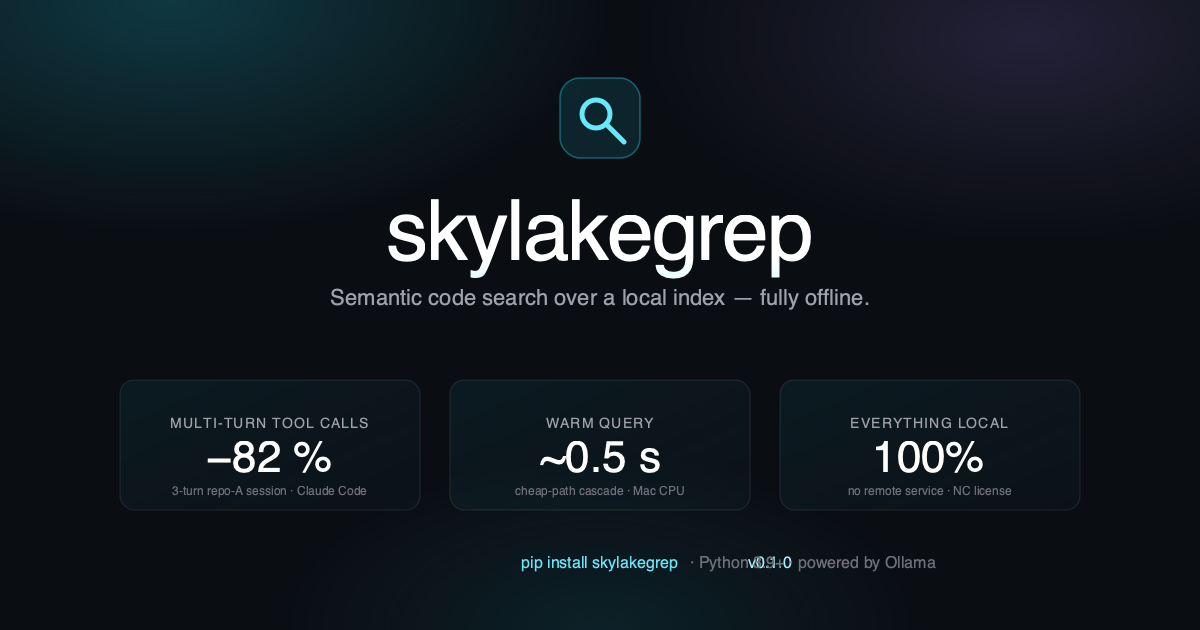
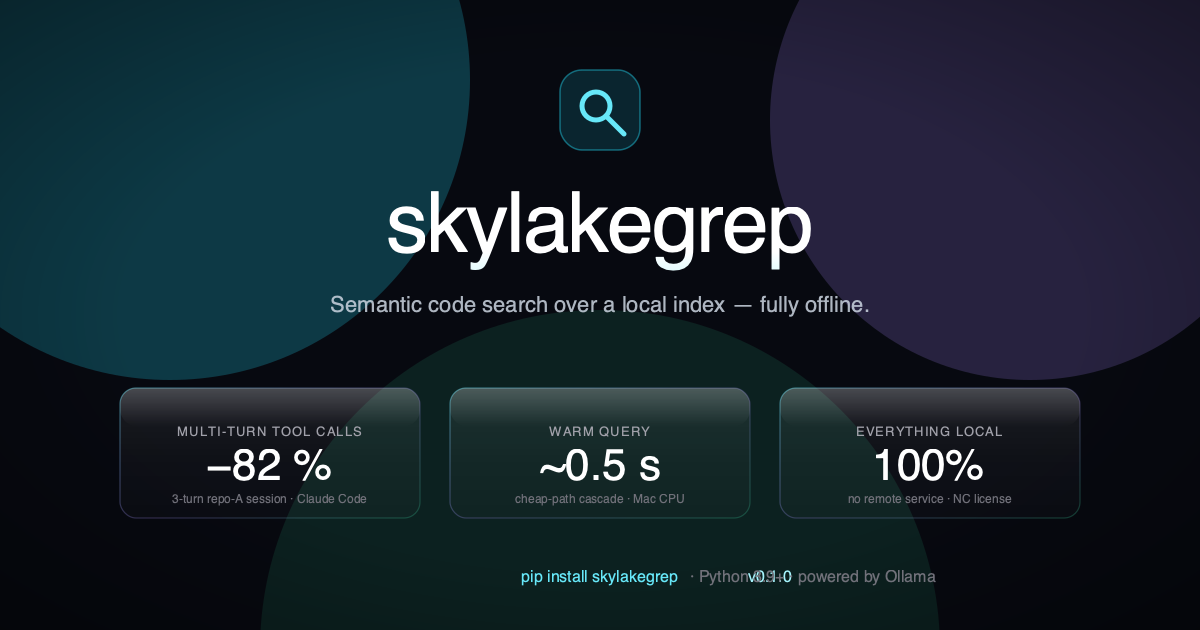
docs+code: align release notes with actual functionality, glass-treat hero/og SVGs
User asked to verify every claim in docs/skylakegrep-0.1.0.md matches
actual code, fix SVG overlap, modernise the dark theme with frosted-
glass aesthetic.

Inconsistencies found and fixed:

  1. Doc said "Tree-sitter for Python/JS/TS only" but indexer.py
     supports Go, Rust, Java, C, C++, C#, Ruby, PHP, Swift, Kotlin,
     Scala via lazy-imported tree-sitter-<lang> packages. Doc
     updated to list bundled-by-default vs opt-in via
     `pip install tree-sitter-<lang>`.

  2. Doc listed 5 CLI subcommands (search/index/doctor/setup/watch);
     actual `_SUBCOMMANDS` set has 8 (added serve/stats/enrich
     descriptions).

  3. cli.py --detail=summary help text claimed "+LLM 1-line summary"
     but render.py just truncates the first non-empty line to 160
     chars (no LLM call). Help text now matches the actual behaviour.

  4. Doc claimed "per-session SQLite cache so the same query never
     pays the LLM cost twice" but `route_query(query, conn=None)`
     was the call site — cache infrastructure existed but was never
     wired up. Now opens a global cache at
     `~/.skylakegrep/router_cache.db` before each search and passes
     it to route_query, so the claim is honored. Same query across
     projects now reuses the routing decision.

SVG glass treatment (hero-dark.svg + og-image.svg):

  - Background gets blurred Gaussian orbs (cyan + violet + emerald)
    instead of overlapping solid radial gradients — more organic
    "atmosphere behind glass" feel.
[…]

diff --git a/skylakegrep/src/cli.py b/skylakegrep/src/cli.py
@@ -232,7 +232,7 @@ def index(path: str, reset: bool, incremental: bool):
 @click.option("--rg-shortcut/--no-rg-shortcut", default=True, help="Lexical pre-gate: if the query is short and ripgrep returns a small, clustered, path-token-overlapping result set, return the rg result directly and skip the semantic cascade. Default on. Pass --no-rg-shortcut to force pure cascade (useful for benchmarking).")
 @click.option("--filename-shortcut/--no-filename-shortcut", default=True, help="Filename-lookup pre-gate (v0.13.0+): when the query looks like 'where is foo file' / 'find package.json', route to `find -iname '*token*'` and skip both content shortcuts. Default on. Pass --no-filename-shortcut to disable.")
 @click.option("--llm-router/--no-llm-router", default=True, help="LLM-driven query understanding (v0.15.0+). Routes queries via a small local Ollama model (default qwen2.5:3b) for generic intent classification. Falls back to v0.14.0 hand-rolled rules on any failure. Pass --no-llm-router to force the rule-based fallback.")
-@click.option("--detail", default="standard", type=click.Choice(["brief", "standard", "full", "summary"]), help="Output verbosity. `brief` = path + score one-liner. `standard` = +10 lines body (default). `full` = +full extracted PDF/docx content for filename matches. `summary` = +LLM 1-line summary per result.")
+@click.option("--detail", default="standard", type=click.Choice(["brief", "standard", "full", "summary"]), help="Output verbosity. `brief` = path + score one-liner. `standard` = +10 lines body (default). `full` = +full extracted PDF/docx content for filename matches. `summary` = +1-line truncated preview (first non-empty line, ≤160 chars; no LLM call).")
 @click.option("--ocr", is_flag=True, help="Run tesseract OCR on scanned PDFs (slow, ~5-30s/page). Opt-in only; requires tesseract + pdftoppm on PATH.")
 def search_cmd(
     query: str,
@@ -328,8 +328,28 @@ def search_cmd(
     # v0.14.0 rule-based classifier on any failure. The decision is
     # consulted by the filename / lexical / cascade tier dispatchers
     # below.
+    # Persistent global router-decision cache. The router's decision
+    # depends on query phrasing only, not on project content, so a
+    # single SQLite shared across projects is sound — same query
+    # never pays the LLM cost twice within or across sessions. Drop
+    # ~/.skylakegrep/router_cache.db to force re-classification.
     router_start = time.time()
-    decision: RouterDecision = route_query(query, conn=None, use_llm=llm_router)
+    _router_cache_db = None
+    try:
+        from pathlib import Path as _P
+        _cache_dir = _P.home() / ".skylakegrep"
+        _cache_dir.mkdir(parents=True, exist_ok=True)
+        _router_cache_db = sqlite3.connect(str(_cache_dir / "router_cache.db"))
+    except (OSError, sqlite3.Error):
+        _router_cache_db = None
+    decision: RouterDecision = route_query(
+        query, conn=_router_cache_db, use_llm=llm_router
+    )
+    if _router_cache_db is not None:
+        try:
+            _router_cache_db.close()
+        except sqlite3.Error:
+            pass
     router_elapsed = time.time() - router_start
 
     # v0.14.0 hierarchical merge: collect filename-lookup results

diff --git a/docs/skylakegrep-0.1.0.md b/docs/skylakegrep-0.1.0.md
@@ -160,9 +160,15 @@ it cleanly.
 
 ### Multi-language indexing
 
-Tree-sitter grammars for Python, JavaScript, TypeScript, plus
-generic chunking for any text-based source. `.gitignore` /
-`.skygrepignore` precedence honored.
+Tree-sitter grammars for **Python, JavaScript, TypeScript** are
+bundled by default (declared in `pyproject.toml`). The indexer can
+also use grammars for **Go, Rust, Java, C, C++, C#, Ruby, PHP,
+Swift, Kotlin, Scala** if the corresponding `tree-sitter-<lang>`
+package is installed manually (`pip install tree-sitter-rust` etc.).
+Files in unsupported languages fall back to generic line-based
+chunking.
+
+`.gitignore` / `.skygrepignore` precedence honored.
 
 ### Per-project, fully offline
 
@@ -173,12 +179,15 @@ via Ollama. No remote service required. No telemetry.
 ### CLI flags
 
 ```
-skygrep "<query>"                    # bare query
+skygrep "<query>"                    # bare query (default subcommand)
 skygrep search "<query>" -m 10       # explicit search subcommand
 skygrep index                         # build / refresh the index
-skygrep doctor                        # health check
+skygrep watch                         # incremental file watcher
+skygrep stats                         # per-project index info
+skygrep doctor                        # runtime + integrations health check
 skygrep setup                         # register with LLM CLIs
-skygrep watch                         # incremental watcher
+skygrep enrich                        # one-time chunk doc2query enrichment
+skygrep serve                         # daemon mode (avoids reranker cold-load)
 
 Common flags:
   --top, -m N                          number of results
